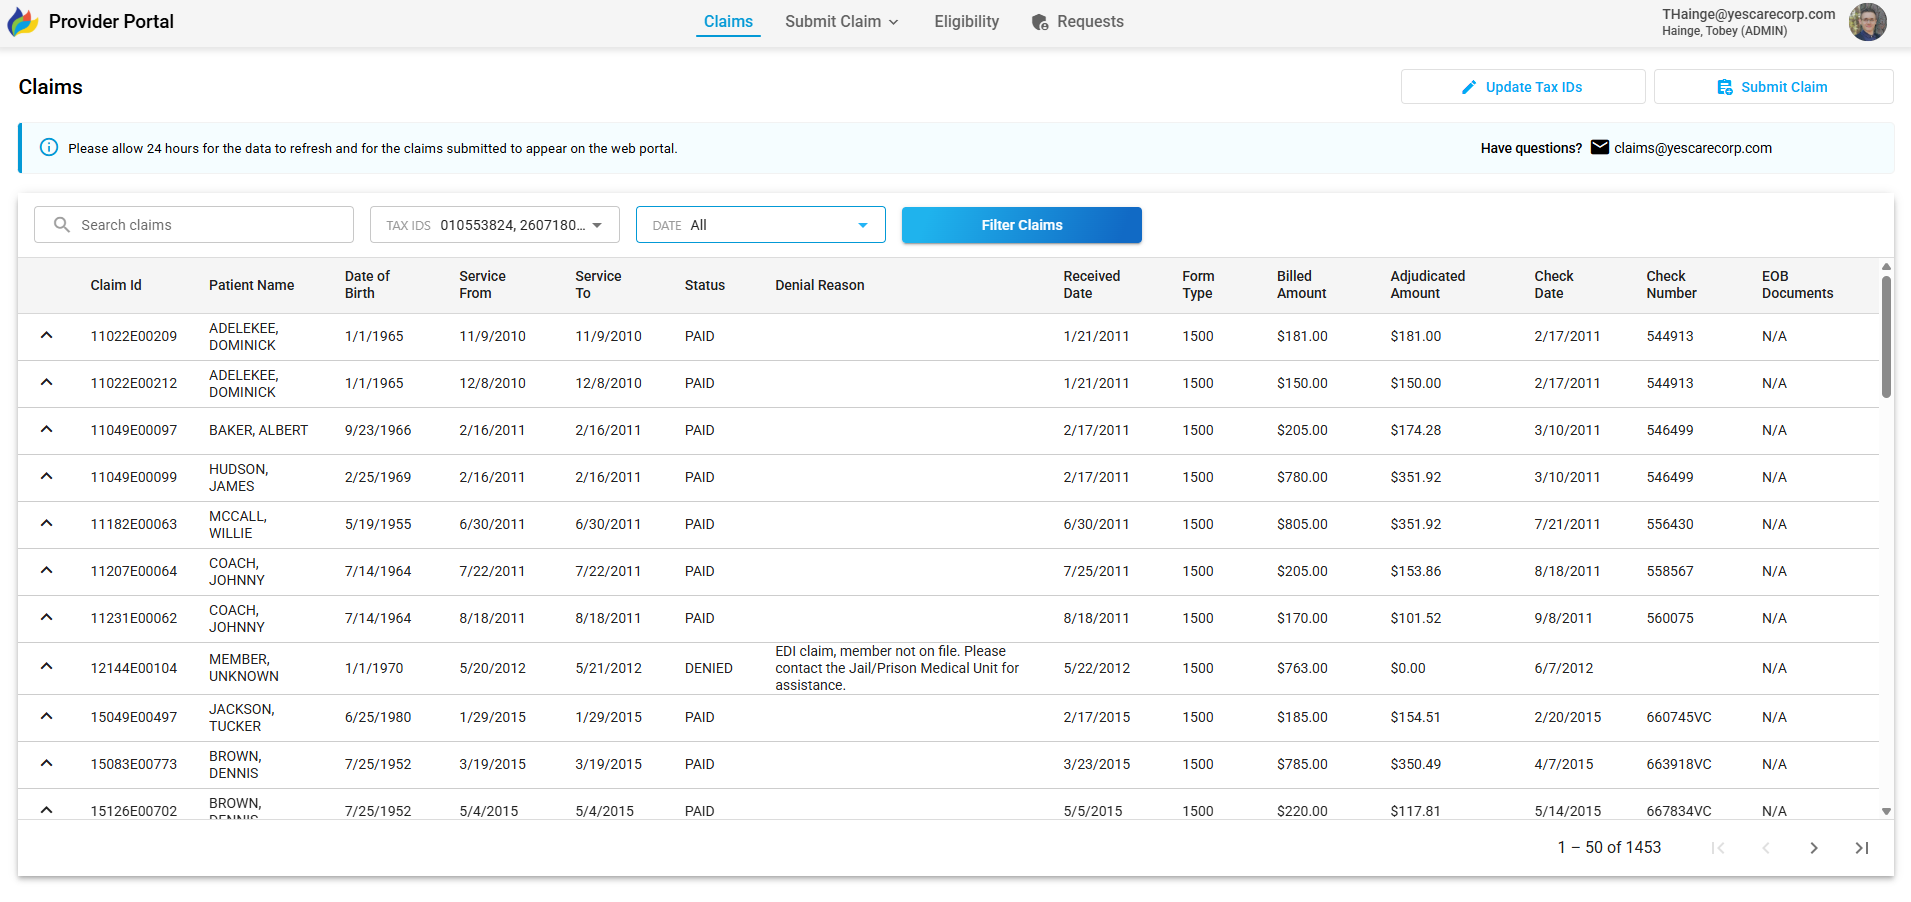
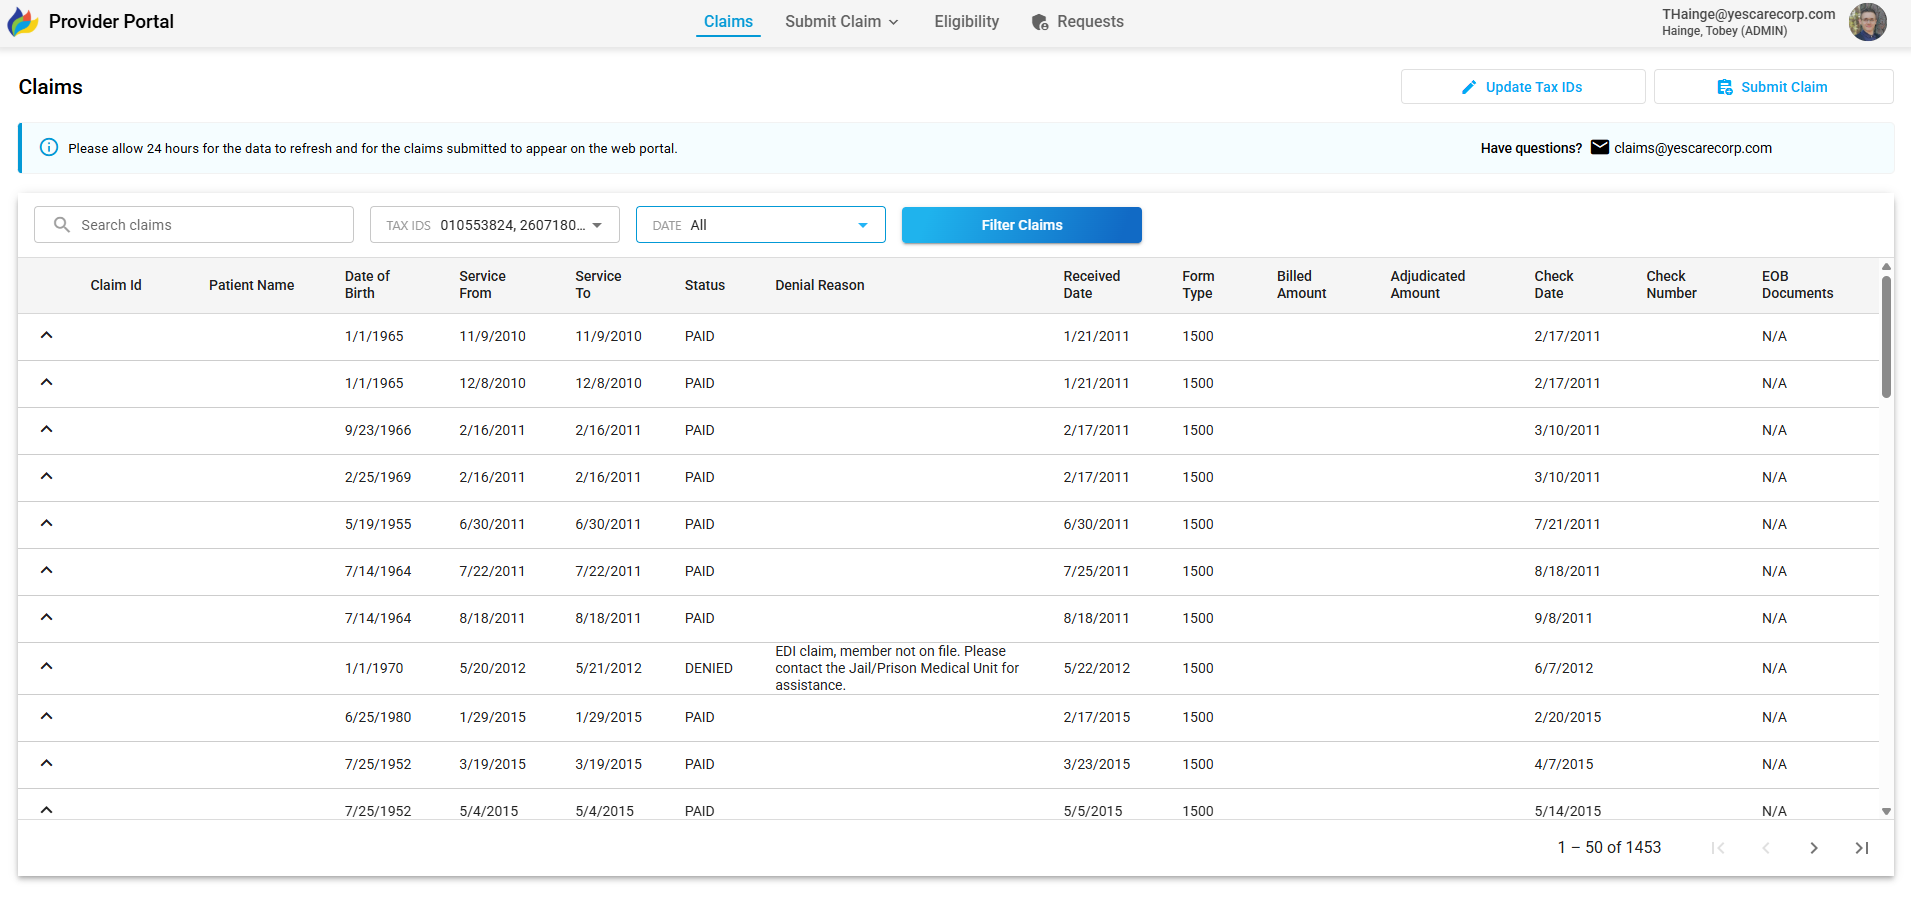
Updated years

diff --git a/src/Pages/Home.js b/src/Pages/Home.js
@@ -38,7 +38,7 @@ function Home() {
                                 <ReactRotatingText items={['Fullstack Developer', 'UI/UX Designer']} />
                             </h1>
                             <div className={styles.headerPara}>
-                                Full Stack Developer with over four (4) years of experience architecting large-scale applications across enterprise infrastructures. Expertise in Angular, React, .NET, C#, and cloud-based architectures, delivering secure, highly scalable solutions supporting 8,000+ users daily in high-availability environments across state correctional facilities. Proven ability to architect and maintain mission-critical healthcare applications, supporting high-volume users with strong security, performance, and uptime.
+                                Full Stack Developer with over five (5) years of experience architecting large-scale applications across enterprise infrastructures. Expertise in Angular, React, .NET, C#, and cloud-based architectures, delivering secure, highly scalable solutions supporting 8,000+ users daily in high-availability environments across state correctional facilities. Proven ability to architect and maintain mission-critical healthcare applications, supporting high-volume users with strong security, performance, and uptime.
                             </div>
                             <div className={styles.headerButtons}>
                                 <div className={styles.button2} onClick={scrollToPortfolio}>View Portfolio</div>
